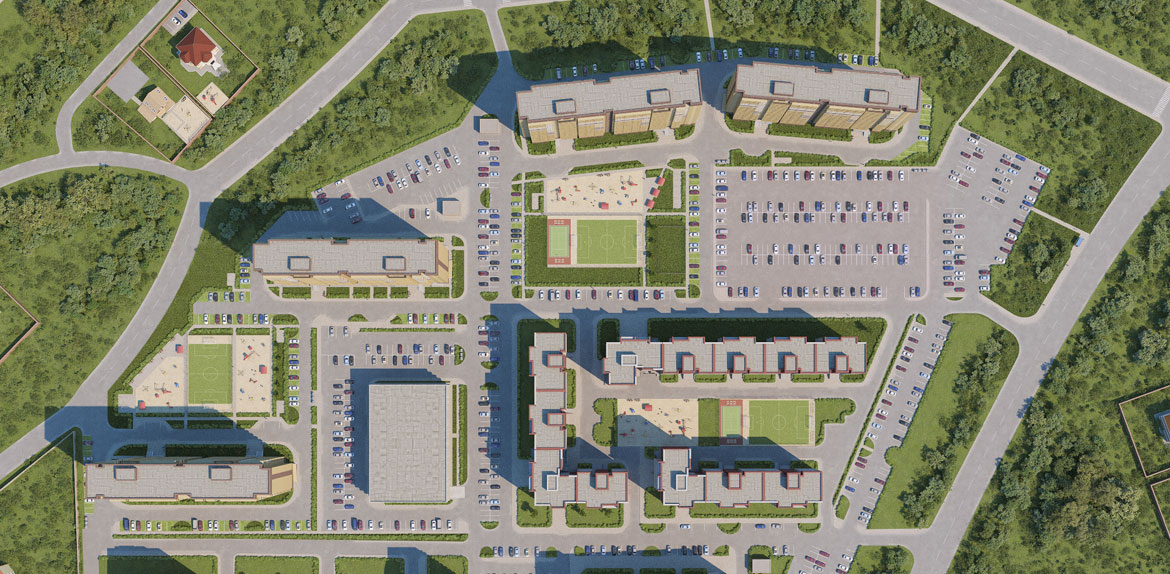
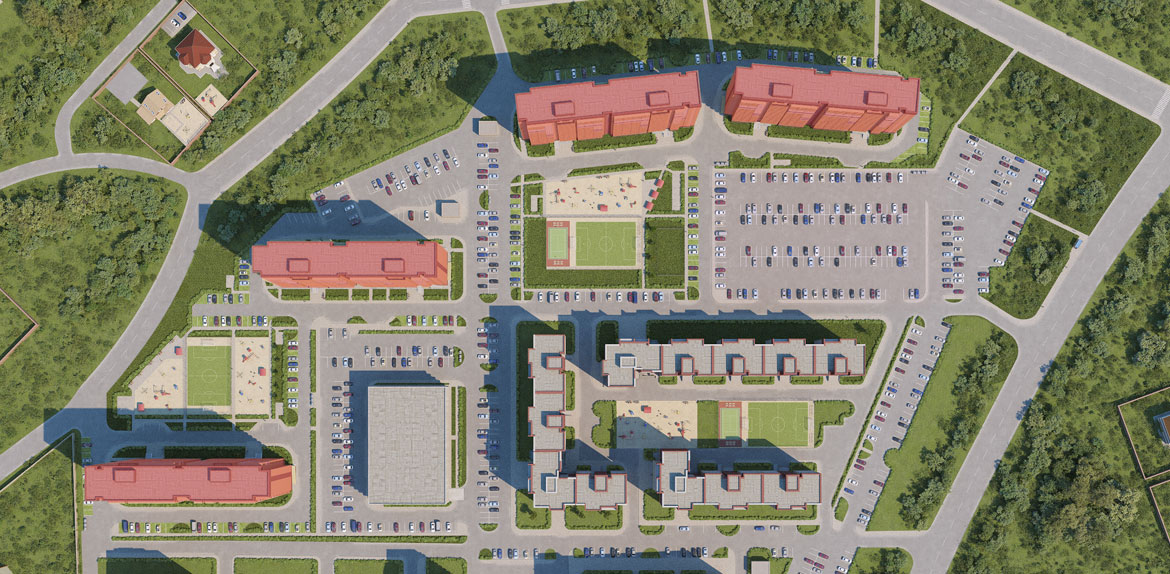
Corrected changing colors on hover - object map

diff --git a/novyy-mys-20.html b/novyy-mys-20.html
@@ -570,7 +570,7 @@
 						<div class="object-legend__left">ГП-1</div>
 						<div class="object-legend__right">Осталось 99 квартир</div>
 					</div>
-					<div class="available-bldg" style="width: 197px; height: 78px; background: url(img/gp1.png); top: 58px; right: 248px;">
+					<div class="available-bldg" style="width: 197px; height: 78px; top: 58px; right: 248px;">
 						<div class="available-bldg__section" style="background: url(img/gp1-left.png) 0 2px no-repeat"></div>
 						<div class="available-bldg__section" style="background: url(img/gp1-right.png)0 10px no-repeat"></div>
 					</div>
@@ -578,7 +578,7 @@
 						<div class="object-legend__left">ГП-2</div>
 						<div class="object-legend__right">Осталось 29 квартир</div>
 					</div>
-					<div class="available-bldg" style="width: 187px; height: 78px; background: url(img/gp2.png); top: 67px; right: 467px;">
+					<div class="available-bldg" style="width: 187px; height: 78px; top: 67px; right: 467px;">
 						<div class="available-bldg__section" style="background: url(img/gp2-left.png) 0 12px no-repeat"></div>
 						<div class="available-bldg__section" style="background: url(img/gp2-right.png) -4px 0 no-repeat"></div>
 					</div>
@@ -586,7 +586,7 @@
 						<div class="object-legend__left">ГП-3</div>
 						<div class="object-legend__right">Осталось 125 квартир</div>
 					</div>
-					<div class="available-bldg" style="width: 197px; height: 50px; background: url(img/gp3.png); top: 238px; left: 252px;">
+					<div class="available-bldg" style="width: 197px; height: 50px; top: 238px; left: 252px;">
 						<div class="available-bldg__section" style="background: url(img/gp3-left.png) 0 0 no-repeat"></div>
 						<div class="available-bldg__section" style="background: url(img/gp3-right.png) 0 0 no-repeat"></div>
 					</div>
@@ -594,7 +594,7 @@
 						<div class="object-legend__left">ГП-4</div>
 						<div class="object-legend__right">Осталось 60 квартир</div>
 					</div>
-					<div class="available-bldg" style="width: 210px; height: 46px; background: url(img/gp4.png); bottom: 70px; left: 85px;">
+					<div class="available-bldg" style="width: 210px; height: 46px; bottom: 70px; left: 85px;">
 						<div class="available-bldg__section" style="background: url(img/gp4-left.png) 0 0 no-repeat"></div>
 						<div class="available-bldg__section" style="background: url(img/gp4-right.png) 0 0 no-repeat"></div>
 					</div>
